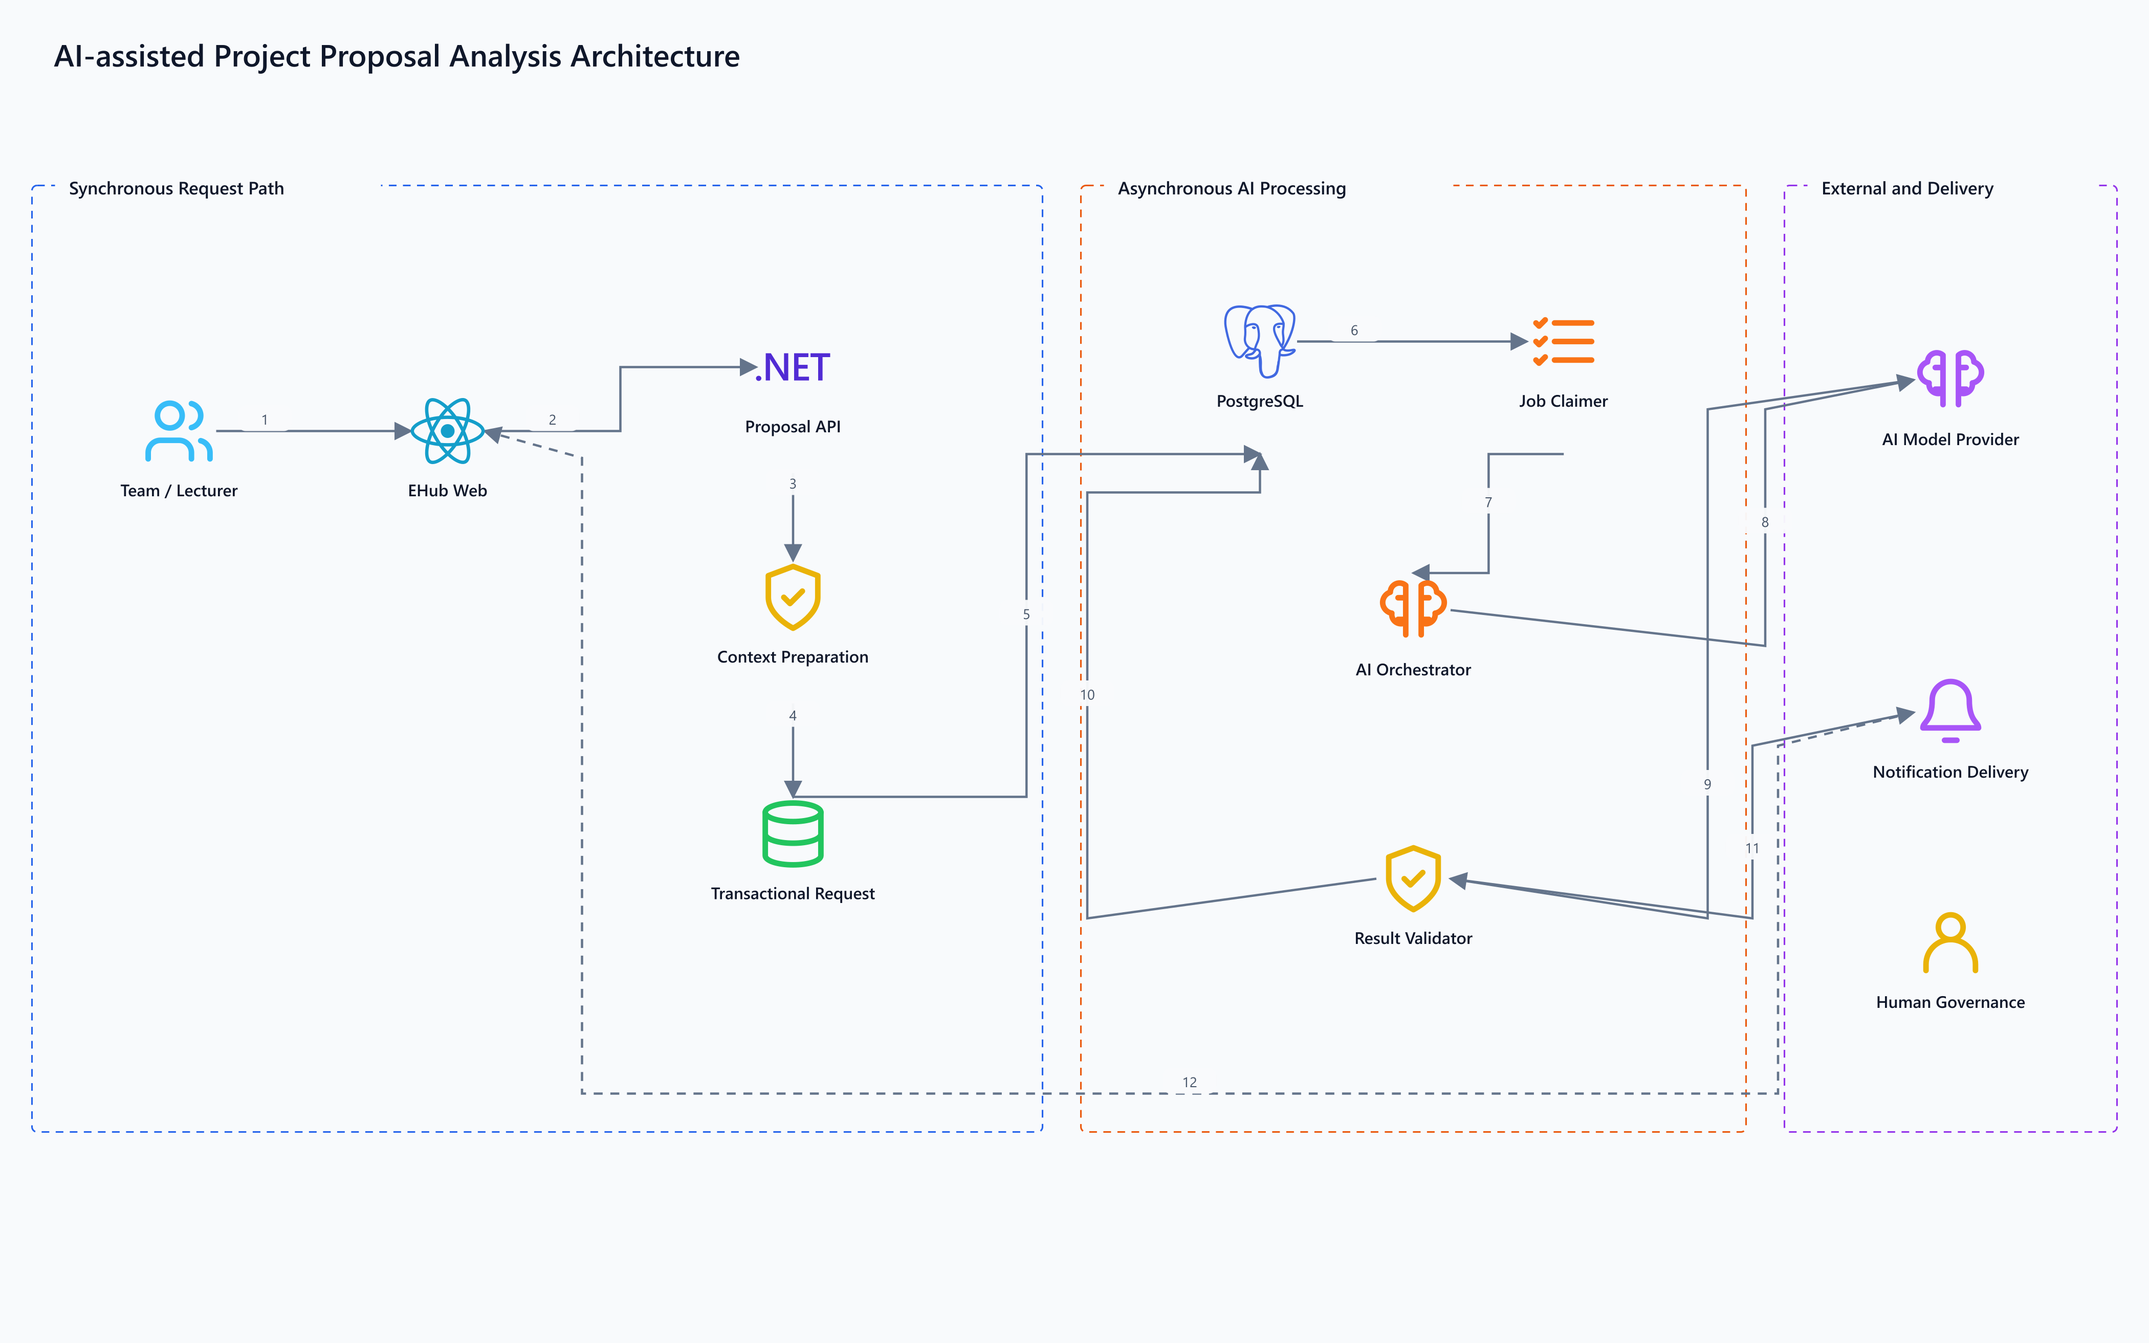
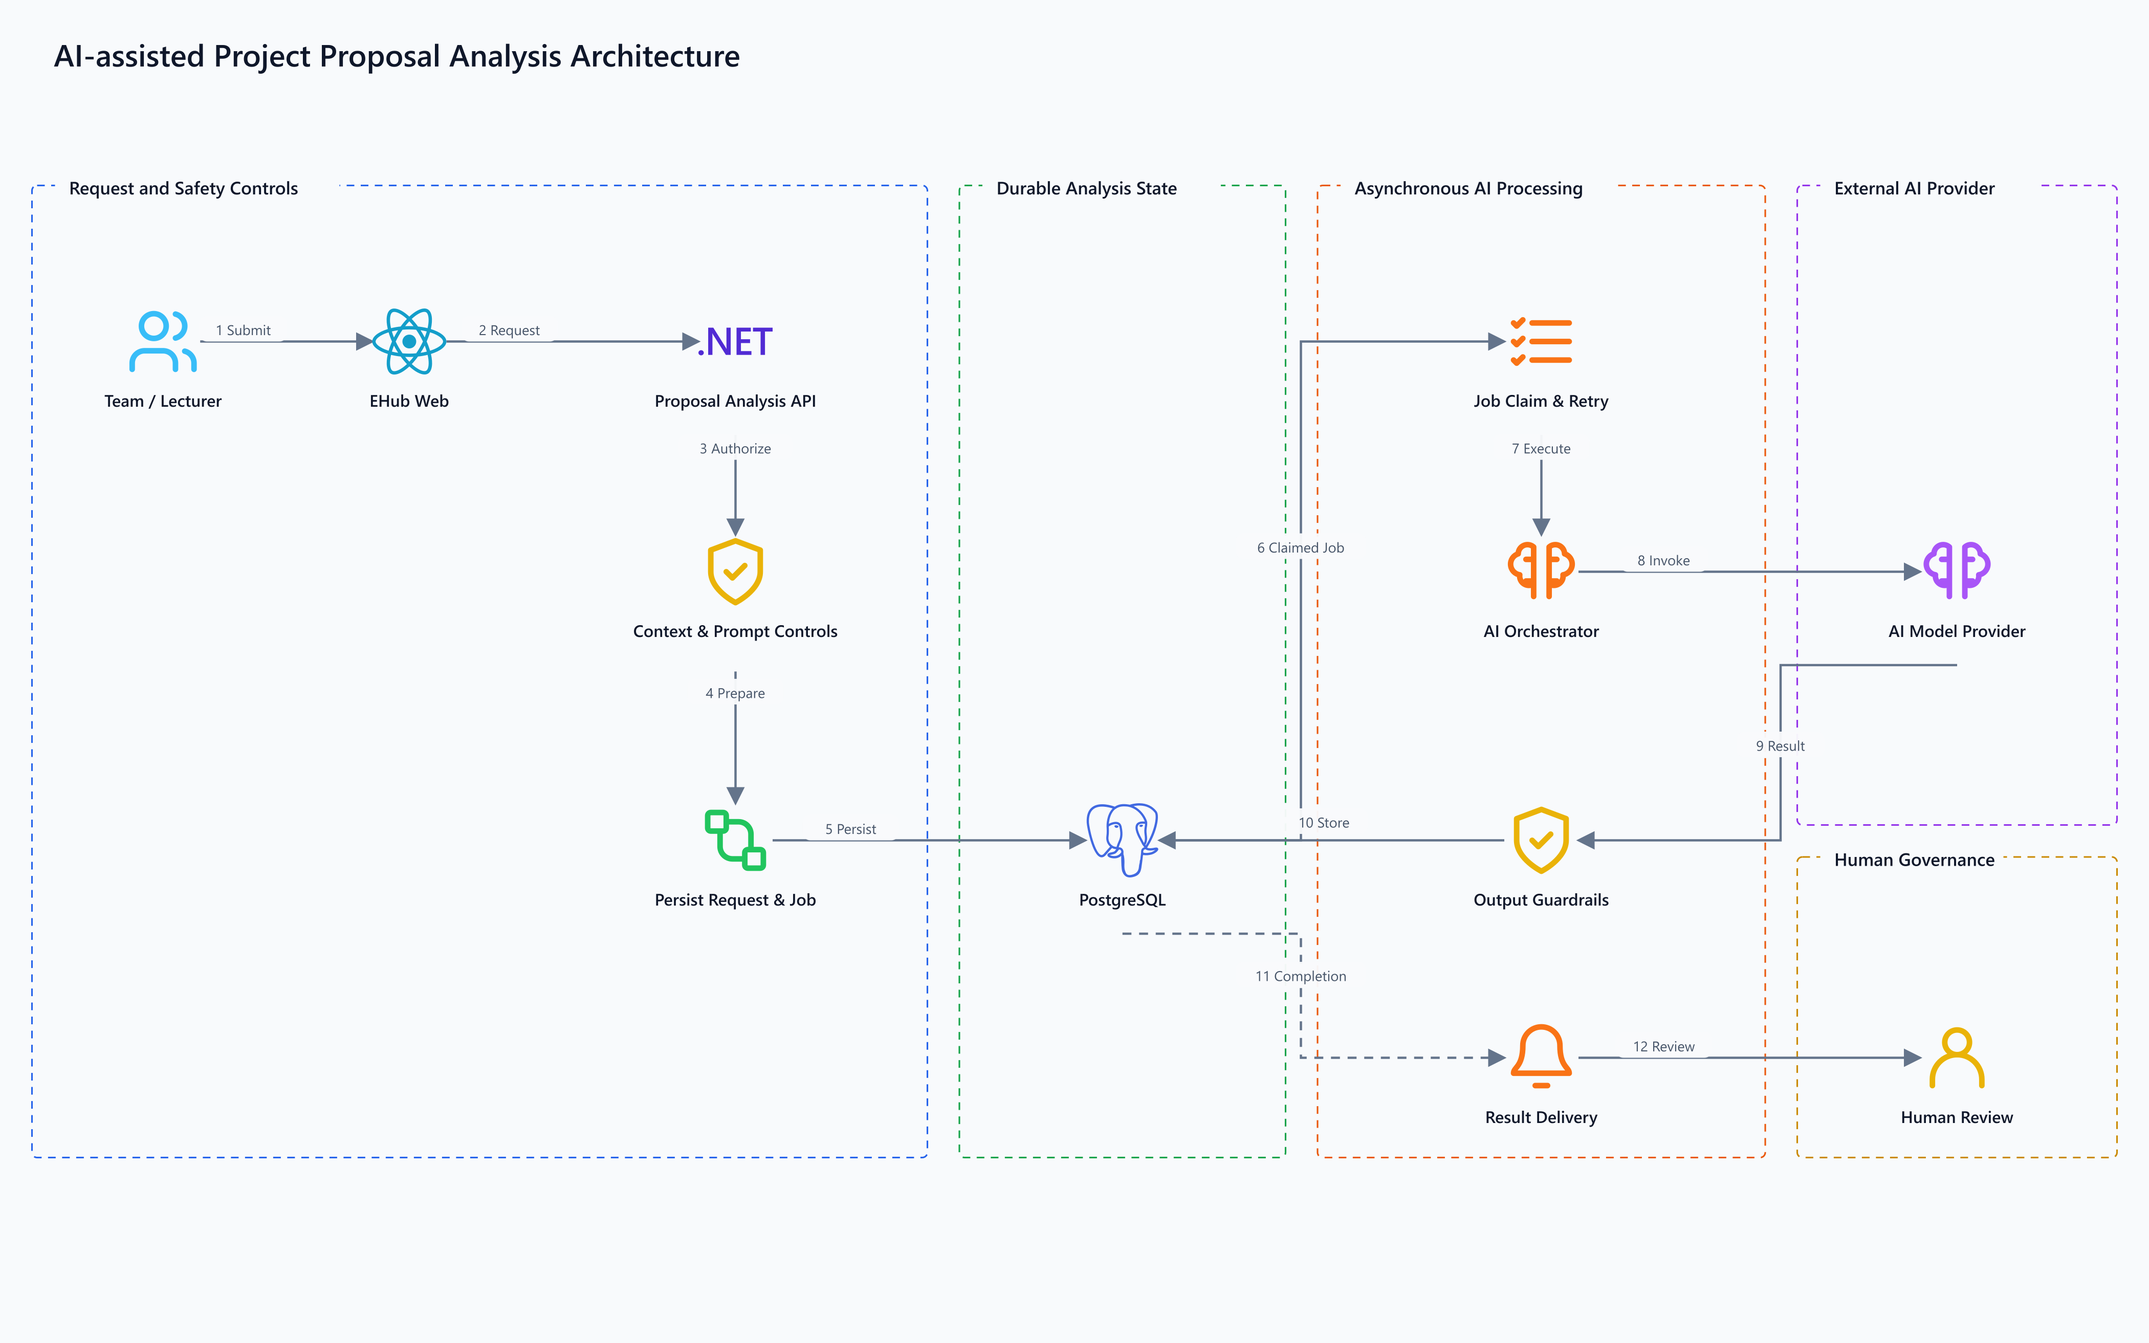
docs: add system architecture diagrams and documentation for AI proposal analysis workflow

diff --git a/docs/system-architecture/tools/generate-architecture-diagrams.js b/docs/system-architecture/tools/generate-architecture-diagrams.js
@@ -96,7 +96,7 @@ const ICON_ASSIGNMENTS = {
   'ai-module': 'sparkles', 'domain-layer': 'layers', 'infrastructure-layer': 'server', 'logical-db': 'postgresql',
   'logical-worker': 'settings', 'logical-google': 'google', 'logical-cloud': 'cloudinary', 'logical-ai': 'brain',
   'logical-email': 'mail',
-  'ai-user': 'users', 'ai-web': 'react', 'ai-api': 'dotnet', 'context-minimizer': 'shield', 'ai-transaction': 'database',
+  'ai-user': 'users', 'ai-web': 'react', 'ai-api': 'dotnet', 'context-minimizer': 'shield', 'ai-transaction': 'workflow',
   'ai-db': 'postgresql', 'job-claimer': 'list', 'ai-orchestrator': 'brain', 'result-validator': 'shield',
   'external-ai': 'brain', 'notification-delivery': 'bell', 'human-governance': 'user',
   'rt-user': 'user', 'signalr-client': 'react', 'signalr-hub': 'radio', 'membership-auth': 'lock',
@@ -387,50 +387,56 @@ const diagrams = [
     page: '04 - AI Logical View',
     file: '04-ai-proposal-analysis-architecture',
     title: 'AI-assisted Project Proposal Analysis Architecture',
-    subtitle: 'Provider-neutral, asynchronous and human-governed AI workflow',
+    subtitle: 'Authorized, privacy-aware, durable and human-governed AI analysis workflow',
     groups: [
-      group('request-lane', 25, 145, 790, 740, 'Synchronous Request Path', 'frontend'),
-      group('worker-lane', 845, 145, 520, 740, 'Asynchronous AI Processing', 'backend'),
-      group('ai-external-boundary', 1395, 145, 260, 740, 'External and Delivery', 'external'),
+      group('request-lane', 25, 145, 700, 760, 'Request and Safety Controls', 'frontend', { compactTitleGap: true }),
+      group('ai-state-boundary', 750, 145, 255, 760, 'Durable Analysis State', 'data', { compactTitleGap: true }),
+      group('worker-lane', 1030, 145, 350, 760, 'Asynchronous AI Processing', 'backend', { compactTitleGap: true }),
+      group('ai-external-boundary', 1405, 145, 250, 500, 'External AI Provider', 'external', { compactTitleGap: true }),
+      group('ai-governance-boundary', 1405, 670, 250, 235, 'Human Governance', 'security', { compactTitleGap: true }),
     ],
     nodes: [
-      node('ai-user', 65, 300, 150, 115, 'Team / Lecturer', ['Submit or request analysis'], 'actor'),
-      node('ai-web', 265, 300, 170, 115, 'EHub Web', ['Proposal form', 'Analysis status'], 'frontend'),
-      node('ai-api', 485, 250, 270, 120, 'Proposal Analysis API', ['Authorization', 'Input validation', 'Rate limit'], 'backend'),
-      node('context-minimizer', 485, 430, 270, 120, 'Context Preparation', ['Minimize personal data', 'Normalize proposal data', 'Select prompt version'], 'security'),
-      node('ai-transaction', 485, 615, 270, 135, 'Transactional Request', ['Save analysis request', 'Create job/outbox record', 'Return Accepted + status ID'], 'data'),
-      node('ai-db', 880, 230, 210, 125, 'PostgreSQL', ['Proposal', 'AI job and result', 'Prompt/model metadata'], 'data'),
-      node('job-claimer', 1120, 230, 205, 125, 'Job Claimer', ['Lease and idempotency', 'Retry policy'], 'backend'),
-      node('ai-orchestrator', 915, 440, 380, 130, 'AI Orchestrator', ['IAiProvider abstraction', 'Timeout and cancellation', 'Provider/model configuration'], 'backend'),
-      node('result-validator', 915, 650, 380, 135, 'Structured Result Validator', ['JSON schema validation', 'Business sanity checks', 'Persist ProjectAnalysis'], 'security'),
-      node('external-ai', 1430, 260, 190, 120, 'AI Model Provider', ['Structured response API'], 'external'),
-      node('notification-delivery', 1430, 520, 190, 125, 'Notification Delivery', ['In-app notification', 'SignalR update', 'Optional email'], 'external'),
-      note('human-governance', 1415, 700, 220, 140, 'Human governance', ['AI provides recommendations only.', 'Lecturer/Admin retains decision authority.']),
+      node('ai-user', 55, 230, 145, 110, 'Team / Lecturer', ['Submit proposal or request analysis'], 'actor'),
+      node('ai-web', 245, 230, 150, 110, 'EHub Web', ['Proposal form and analysis status'], 'frontend'),
+      node('ai-api', 475, 230, 200, 110, 'Proposal Analysis API', ['Authorization, validation and rate limit'], 'backend'),
+      node('context-minimizer', 475, 410, 200, 115, 'Context and Prompt Controls', ['Minimize personal data and select prompt version'], 'security'),
+      node('ai-transaction', 475, 620, 200, 110, 'Persist Request and Job', ['Atomic request, job and outbox write'], 'data'),
+
+      node('ai-db', 785, 620, 185, 110, 'PostgreSQL', ['Proposal snapshot, job, result and metadata'], 'data'),
+
+      node('job-claimer', 1100, 230, 210, 110, 'Job Claim and Retry', ['Lease, idempotency and retry policy'], 'backend'),
+      node('ai-orchestrator', 1100, 410, 210, 110, 'AI Orchestrator', ['IAiProvider, timeout and model configuration'], 'backend'),
+      node('result-validator', 1100, 620, 210, 110, 'Output Guardrails', ['Schema validation and business sanity checks'], 'security'),
+      node('notification-delivery', 1100, 790, 210, 95, 'Result Delivery', ['In-app, SignalR and optional email'], 'backend'),
+
+      node('external-ai', 1440, 410, 180, 110, 'AI Model Provider', ['Structured response API'], 'external'),
+      node('human-governance', 1440, 790, 180, 95, 'Human Review', ['Lecturer or Admin retains decision authority'], 'security'),
     ],
     edges: [
-      edge('a1', 'ai-user', 'ai-web', '1. submit'),
-      edge('a2', 'ai-web', 'ai-api', '2. HTTPS request'),
-      edge('a3', 'ai-api', 'context-minimizer', '3. validated input', { sourceSide: 'bottom', targetSide: 'top' }),
-      edge('a4', 'context-minimizer', 'ai-transaction', '4. safe context', { sourceSide: 'bottom', targetSide: 'top' }),
-      edge('a5', 'ai-transaction', 'ai-db', '5. atomic write'),
-      edge('a6', 'ai-db', 'job-claimer', '6. claim pending job'),
-      edge('a7', 'job-claimer', 'ai-orchestrator', '7. execute', { sourceSide: 'bottom', targetSide: 'top' }),
-      edge('a8', 'ai-orchestrator', 'external-ai', '8. provider request', {
-        sourceSide: 'right', targetSide: 'left', points: [{ x: 1380, y: 505 }, { x: 1380, y: 320 }], labelX: 1380, labelY: 410,
+      edge('a1', 'ai-user', 'ai-web', 'submit proposal', { sourceSide: 'right', targetSide: 'left' }),
+      edge('a2', 'ai-web', 'ai-api', 'request analysis', { sourceSide: 'right', targetSide: 'left' }),
+      edge('a3', 'ai-api', 'context-minimizer', 'authorized input', { sourceSide: 'bottom', targetSide: 'top' }),
+      edge('a4', 'context-minimizer', 'ai-transaction', 'safe versioned context', { sourceSide: 'bottom', targetSide: 'top' }),
+      edge('a5', 'ai-transaction', 'ai-db', 'atomic write and accept', { sourceSide: 'right', targetSide: 'left' }),
+      edge('a6', 'ai-db', 'job-claimer', 'claim pending job', {
+        sourceSide: 'right', targetSide: 'left', labelX: 1017, labelY: 430,
+        points: [{ x: 1017, y: 657 }, { x: 1017, y: 267 }],
       }),
-      edge('a9', 'external-ai', 'result-validator', '9. structured result', {
-        sourceSide: 'left', targetSide: 'right', points: [{ x: 1335, y: 320 }, { x: 1335, y: 718 }], labelX: 1335, labelY: 615,
+      edge('a7', 'job-claimer', 'ai-orchestrator', 'execute once', { sourceSide: 'bottom', targetSide: 'top' }),
+      edge('a8', 'ai-orchestrator', 'external-ai', 'provider request', { sourceSide: 'right', targetSide: 'left' }),
+      edge('a9', 'external-ai', 'result-validator', 'untrusted structured result', {
+        sourceSide: 'bottom', targetSide: 'right', labelX: 1392, labelY: 585,
+        points: [{ x: 1392, y: 520 }, { x: 1392, y: 657 }],
       }),
-      edge('a10', 'result-validator', 'ai-db', '10. store result', {
-        sourceSide: 'left', targetSide: 'bottom', points: [{ x: 850, y: 718 }, { x: 850, y: 385 }, { x: 985, y: 385 }], labelX: 850, labelY: 545,
+      edge('a10', 'result-validator', 'ai-db', 'validated result and completion event', {
+        sourceSide: 'left', targetSide: 'right', labelX: 1035, labelY: 645,
       }),
-      edge('a11', 'result-validator', 'notification-delivery', '11. publish completion', {
-        sourceSide: 'right', targetSide: 'left', points: [{ x: 1370, y: 718 }, { x: 1370, y: 583 }], labelX: 1370, labelY: 665,
+      edge('a11', 'ai-db', 'notification-delivery', 'completion event', {
+        sourceSide: 'bottom', targetSide: 'left', dashed: true, labelX: 1017, labelY: 765,
+        points: [{ x: 1017, y: 730 }, { x: 1017, y: 827 }],
       }),
-      edge('a12', 'notification-delivery', 'ai-web', '12. status update', {
-        sourceSide: 'left', targetSide: 'right', dashed: true,
-        points: [{ x: 1390, y: 583 }, { x: 1390, y: 855 }, { x: 455, y: 855 }, { x: 455, y: 358 }],
-        labelX: 930, labelY: 848,
+      edge('a12', 'notification-delivery', 'human-governance', 'notify and review', {
+        sourceSide: 'right', targetSide: 'left',
       }),
     ],
   },
@@ -551,10 +557,10 @@ const COMPACT_BODIES = {
   'ai-user': '',
   'ai-web': 'Submit • Track status',
   'ai-api': 'Authorize • Validate',
-  'context-minimizer': 'Minimize • Normalize',
+  'context-minimizer': 'Minimize • Normalize • Version',
   'ai-transaction': 'Request + Job + Outbox',
   'ai-db': 'Request • Job • Result',
-  'job-claimer': 'Lease • Retry',
+  'job-claimer': 'Lease • Idempotency • Retry',
   'ai-orchestrator': 'Provider-neutral execution',
   'result-validator': 'Schema + business checks',
   'external-ai': 'Structured API',
@@ -589,8 +595,8 @@ const COMPACT_EDGE_LABELS = {
   p14: 'DB export', p15: 'Encrypted',
   l1: 'Role Access', l4: 'REST / SignalR', l5: 'Commands / Queries', l6: 'Jobs / Events',
   l7: 'Domain Rules', l8: 'Implements Ports', l9: 'Persistence', l10: 'External Adapters',
-  a1: '1', a2: '2', a3: '3', a4: '4', a5: '5', a6: '6',
-  a7: '7', a8: '8', a9: '9', a10: '10', a11: '11', a12: '12',
+  a1: '1 Submit', a2: '2 Request', a3: '3 Authorize', a4: '4 Prepare', a5: '5 Persist', a6: '6 Claimed Job',
+  a7: '7 Execute', a8: '8 Invoke', a9: '9 Result', a10: '10 Store', a11: '11 Completion', a12: '12 Review',
   r1: '', r2: 'SignalR', r3: 'Auth', r4: '', r5: 'Persist', r6: '',
   r7: 'Broadcast', r8: 'Atomic', r9: 'Claim', r10: 'Dispatch', r11: '',
   r12: '', r13: '', r14: 'Failed', r15: '', r16: '',
@@ -638,15 +644,15 @@ const SHORT_TITLES = {
   'logical-email': 'Email Provider',
   'ai-user': 'Team / Lecturer',
   'ai-web': 'EHub Web',
-  'ai-api': 'Proposal API',
-  'context-minimizer': 'Context Preparation',
-  'ai-transaction': 'Transactional Request',
-  'job-claimer': 'Job Claimer',
+  'ai-api': 'Proposal Analysis API',
+  'context-minimizer': 'Context & Prompt Controls',
+  'ai-transaction': 'Persist Request & Job',
+  'job-claimer': 'Job Claim & Retry',
   'ai-orchestrator': 'AI Orchestrator',
-  'result-validator': 'Result Validator',
+  'result-validator': 'Output Guardrails',
   'external-ai': 'AI Model Provider',
-  'notification-delivery': 'Notification Delivery',
-  'human-governance': 'Human Governance',
+  'notification-delivery': 'Result Delivery',
+  'human-governance': 'Human Review',
   'signalr-client': 'React SignalR Client',
   'membership-auth': 'Membership Authorization',
   'message-service': 'Chat Message Service',

diff --git a/docs/system-architecture/REPORT_CONTENT.md b/docs/system-architecture/REPORT_CONTENT.md
@@ -85,7 +85,21 @@ Architectural constraints: actors and presentation code must not access PostgreS
 
 ### Figure 4. AI-assisted Project Proposal Analysis Architecture
 
-The AI logical view describes an asynchronous, provider-neutral and human-governed analysis workflow. A team or lecturer submits proposal data through the EHub web application. The API authorizes the caller, validates the request, minimizes personal data and selects a versioned prompt. The request and job record are stored atomically before an accepted response is returned. The worker claims the job idempotently, invokes the configured AI provider through the `IAiProvider` abstraction and validates the structured result against both a JSON schema and business constraints. The validated analysis, model metadata and prompt version are stored in PostgreSQL, after which EHub sends an in-app notification and a SignalR update. AI output is advisory; Lecturer or Admin users retain decision authority.
+The AI logical view describes an asynchronous, provider-neutral and human-governed proposal-analysis workflow. A Team or Lecturer submits proposal data through the EHub web application. The API authorizes class, team and proposal ownership, validates request limits and sends only normalized, necessary context into a versioned prompt. EHub atomically stores the immutable proposal snapshot, analysis request, pending job and outbox state in PostgreSQL before returning an accepted response with a status identifier. The external model provider and the internal human-governance role are shown as separate trust boundaries: the provider generates advisory content, while Lecturer or Admin users retain academic and operational decision authority.
+
+The worker leases a pending job with idempotency and retry controls, invokes the configured model through an `IAiProvider` port and treats the provider response as untrusted input. Output guardrails validate the JSON schema, allowed fields, lengths, score ranges and business consistency before any `ProjectAnalysis` is stored. The validated result, prompt version, provider/model metadata and completion event are committed before result delivery creates an in-app notification, SignalR update and optional email. Lecturer or Admin users review the result inside EHub and retain all approval, rejection and grading authority.
+
+Main logical components:
+
+- **Proposal Analysis API:** enforces authentication, ownership, request validation, rate limits and analysis eligibility.
+- **Context and Prompt Controls:** minimize personal data, normalize proposal sections and bind the request to a versioned prompt and output schema.
+- **Persist Request and Job:** commits the proposal snapshot, analysis request, pending job and outbox data atomically and returns only after durable acceptance.
+- **PostgreSQL Analysis State:** stores request status, attempts, leases, prompt/model metadata, validated results and completion events.
+- **Job Claim and Retry:** prevents duplicate concurrent execution and applies bounded retry with a terminal failed state.
+- **AI Orchestrator:** selects the configured provider/model and applies timeout, cancellation and token/cost limits behind the `IAiProvider` abstraction.
+- **Output Guardrails:** reject malformed, oversized or inconsistent provider output and prevent raw AI content from driving privileged state changes.
+- **Result Delivery:** publishes a durable result notification through in-app, SignalR and optional email channels.
+- **Human Review:** presents AI recommendations to Lecturer or Admin users without delegating academic or governance decisions to the model.
 
 Quality and safety controls:
 
@@ -94,7 +108,17 @@ Quality and safety controls:
 - Prompt and model versions are recorded for traceability.
 - Jobs use timeouts, retries and idempotency controls.
 - Structured output is validated before persistence.
+- Proposal snapshots make an analysis reproducible even if the editable proposal changes later.
+- Rate, token and cost limits prevent unbounded provider usage.
+- Sensitive prompt contents and provider credentials must not be written to application logs.
+- Failed jobs remain observable and may be retried explicitly rather than disappearing silently.
 - AI does not automatically approve, reject or grade a project.
+
+Reading conventions: the numbered solid arrows show the accepted request and successful processing path; the dashed completion-event arrow denotes durable asynchronous delivery. PostgreSQL is a shared durable state boundary rather than a processing step. Provider responses are deliberately routed through Output Guardrails before they can be persisted or shown to a reviewer.
+
+Cross-view responsibility: secret injection, encrypted transport, container isolation, database backup and platform observability are defined by the Physical View; dead-letter handling, dispatcher retries and realtime delivery mechanics are expanded in the Realtime and Asynchronous Processing View. They are intentionally not duplicated here so that Figure 4 remains focused on AI safety, durable analysis state and human decision governance.
+
+Implementation alignment note: the current domain already provides proposal versions, `ProjectAnalysis`, PostgreSQL persistence and the outbox/notification foundation. Before the final as-built submission, the dedicated analysis-request/job lifecycle, provider abstraction, prompt/schema version metadata, output-validation pipeline and result-delivery integration must be implemented and verified against this target view.
 
 ### Figure 5. Realtime Communication and Asynchronous Processing Architecture
 
